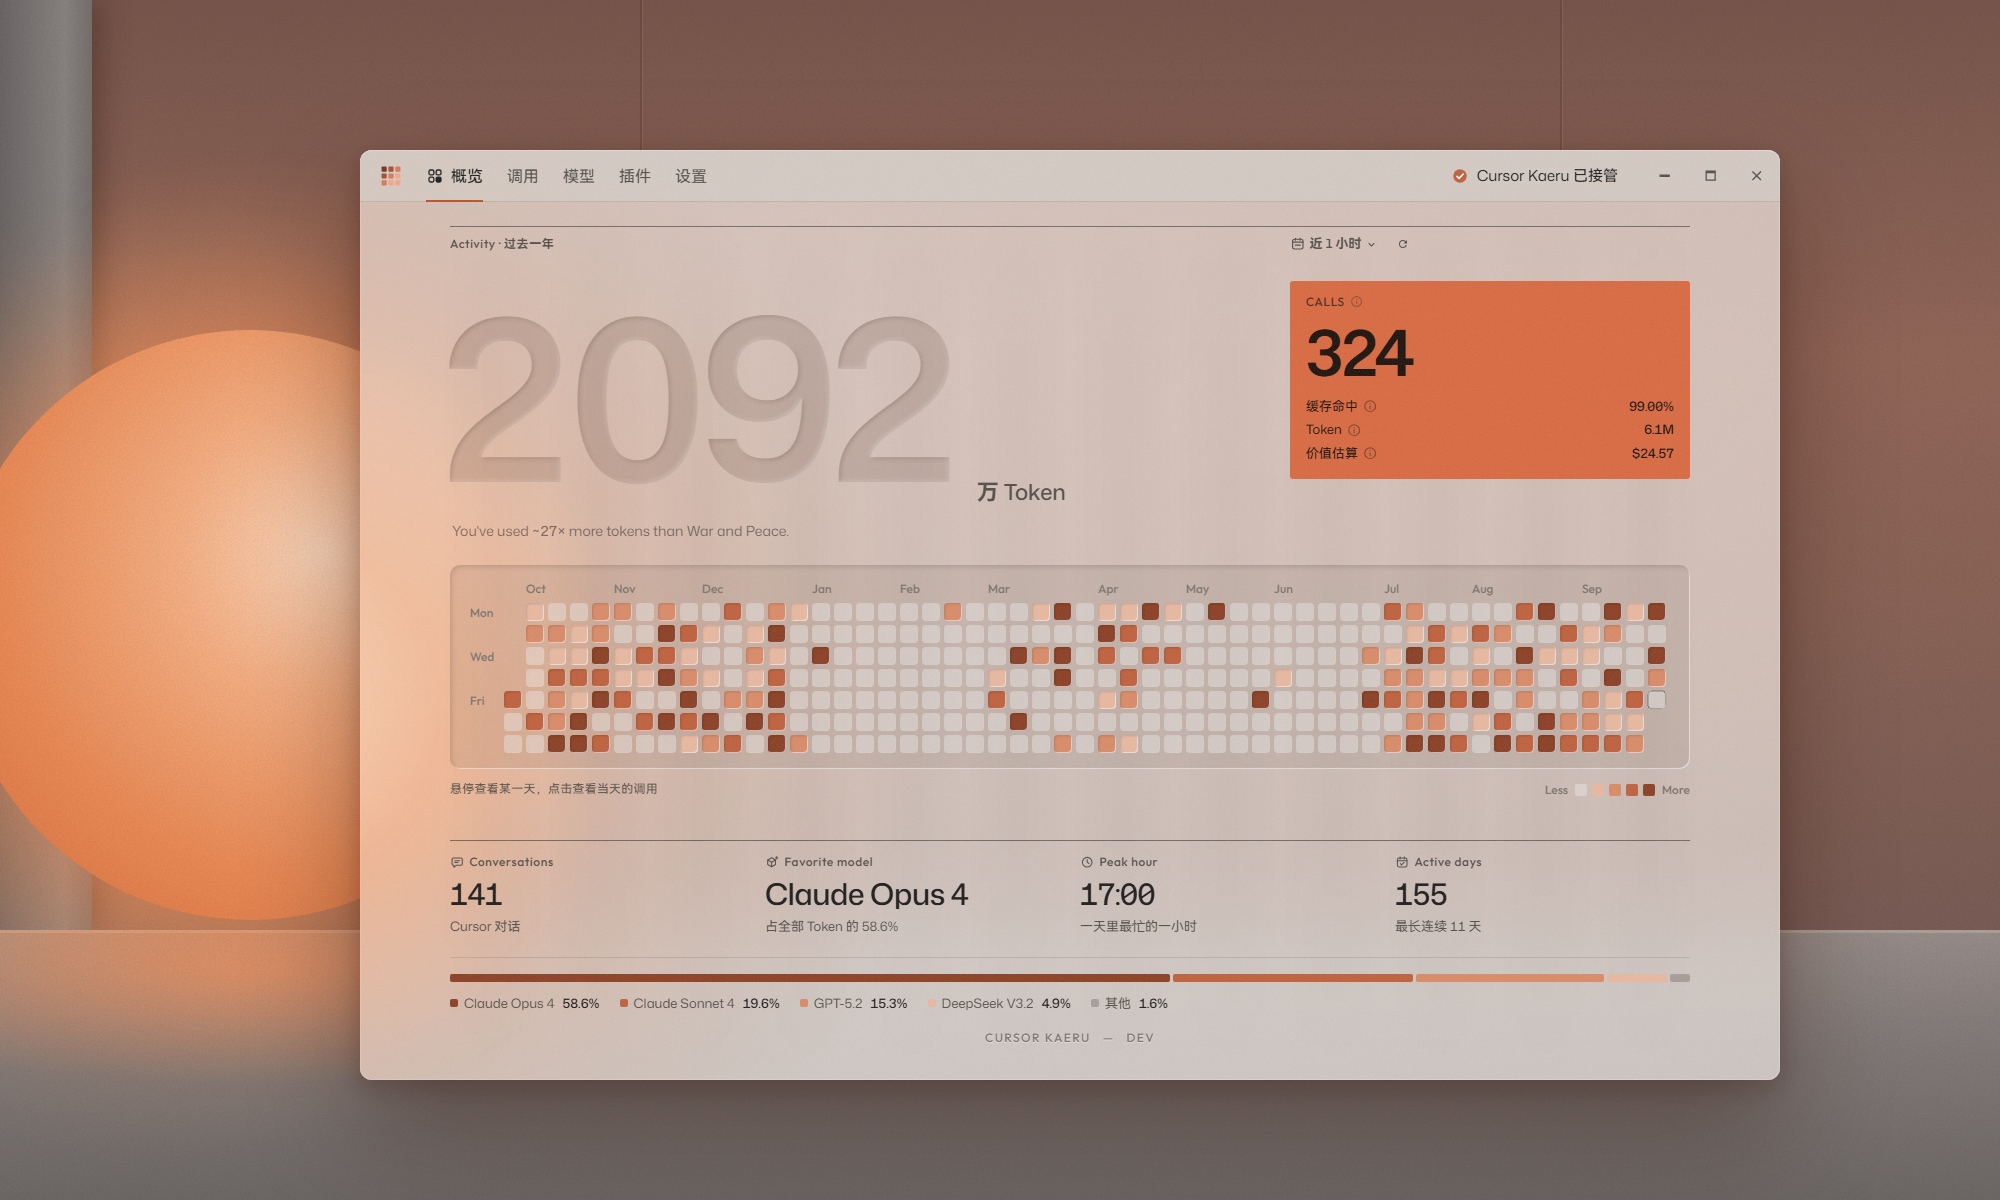
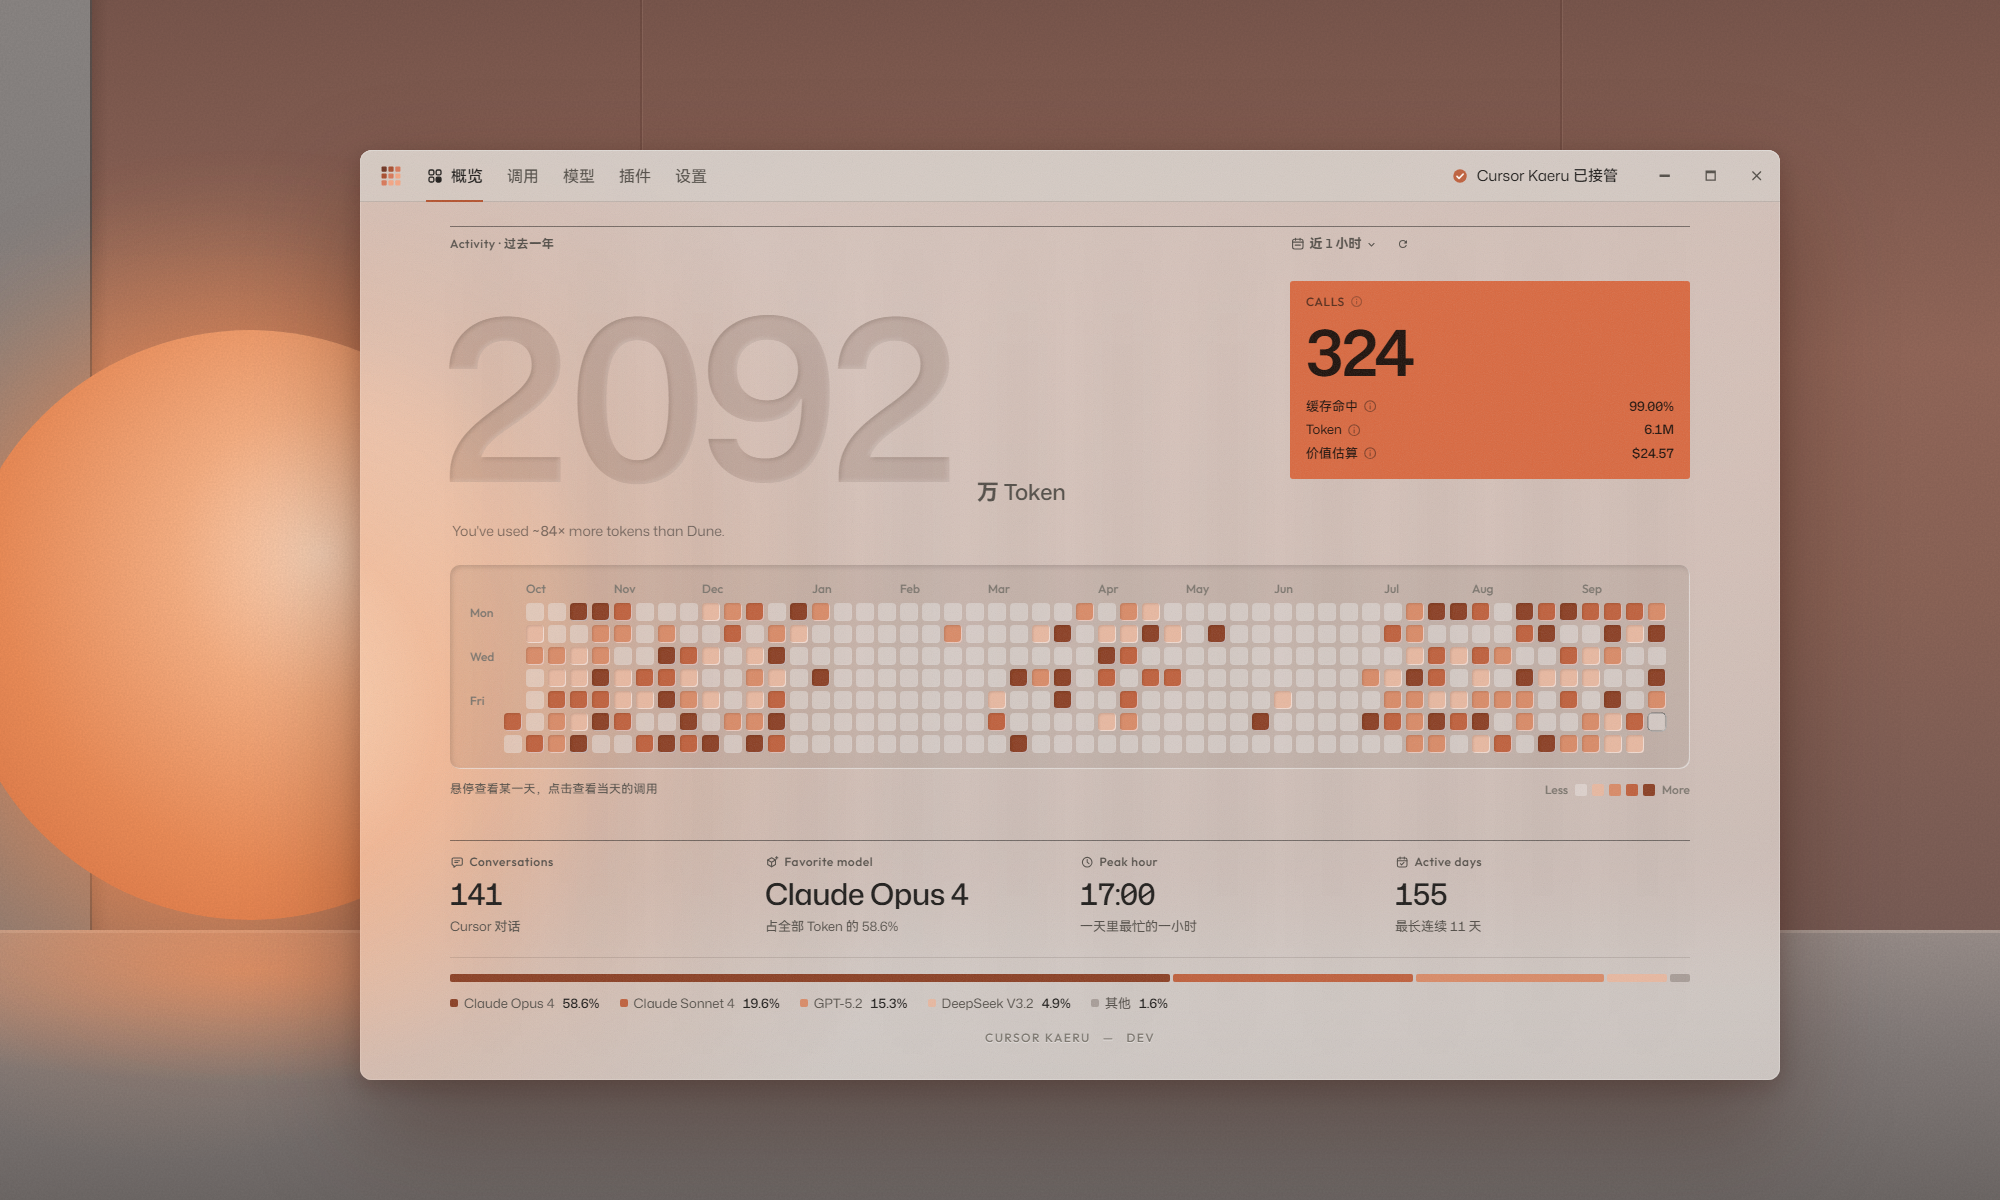
docs: hero image with a flat wall instead of a shaded column; capture script runs in Chrome

diff --git a/apps/desktop/demo/hero.html b/apps/desktop/demo/hero.html
@@ -2,6 +2,7 @@
 <html lang="zh-CN">
 <head>
 <meta charset="utf-8">
+<meta name="color-scheme" content="light">
 <title>Cursor Kaeru · README hero</title>
 <!--
   Source of docs/hero.png: the demo app in a frosted-glass window in front of a warm room.
@@ -24,11 +25,15 @@
   .wall::before { left: 640px; }
   .wall::after { left: 1560px; }
 
-  /* The column at the left edge. */
+  /* A flat concrete slab at the left edge: straight vertical faces, no rounding. */
   .pillar {
     position: absolute; left: 0; top: 0; bottom: 270px; width: 92px;
-    background: linear-gradient(90deg, #6d6867, #8a8583 70%, #77716f);
-    box-shadow: 8px 0 30px rgb(40 20 10 / 35%);
+    background: linear-gradient(180deg, #8b8684, #7f7a78);
+    border-right: 2px solid rgb(50 38 34 / 45%);
+  }
+  .pillar::after {
+    content: ""; position: absolute; left: 100%; top: 0; bottom: 0; width: 18px;
+    background: linear-gradient(90deg, rgb(40 20 12 / 16%), transparent);
   }
 
   /* Floor: pale concrete catching the glow of the sphere. */
